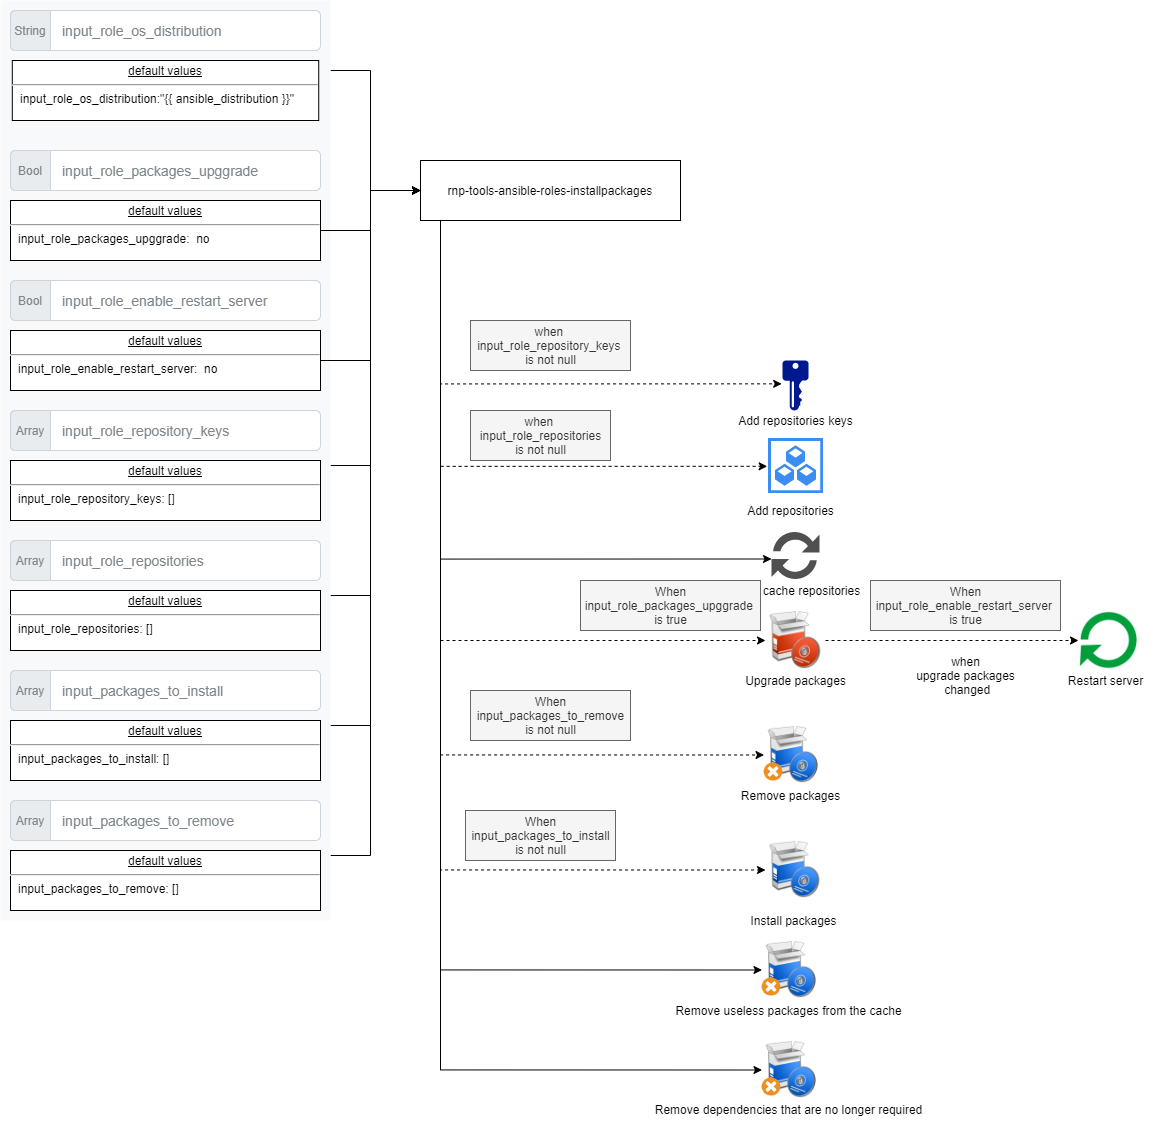
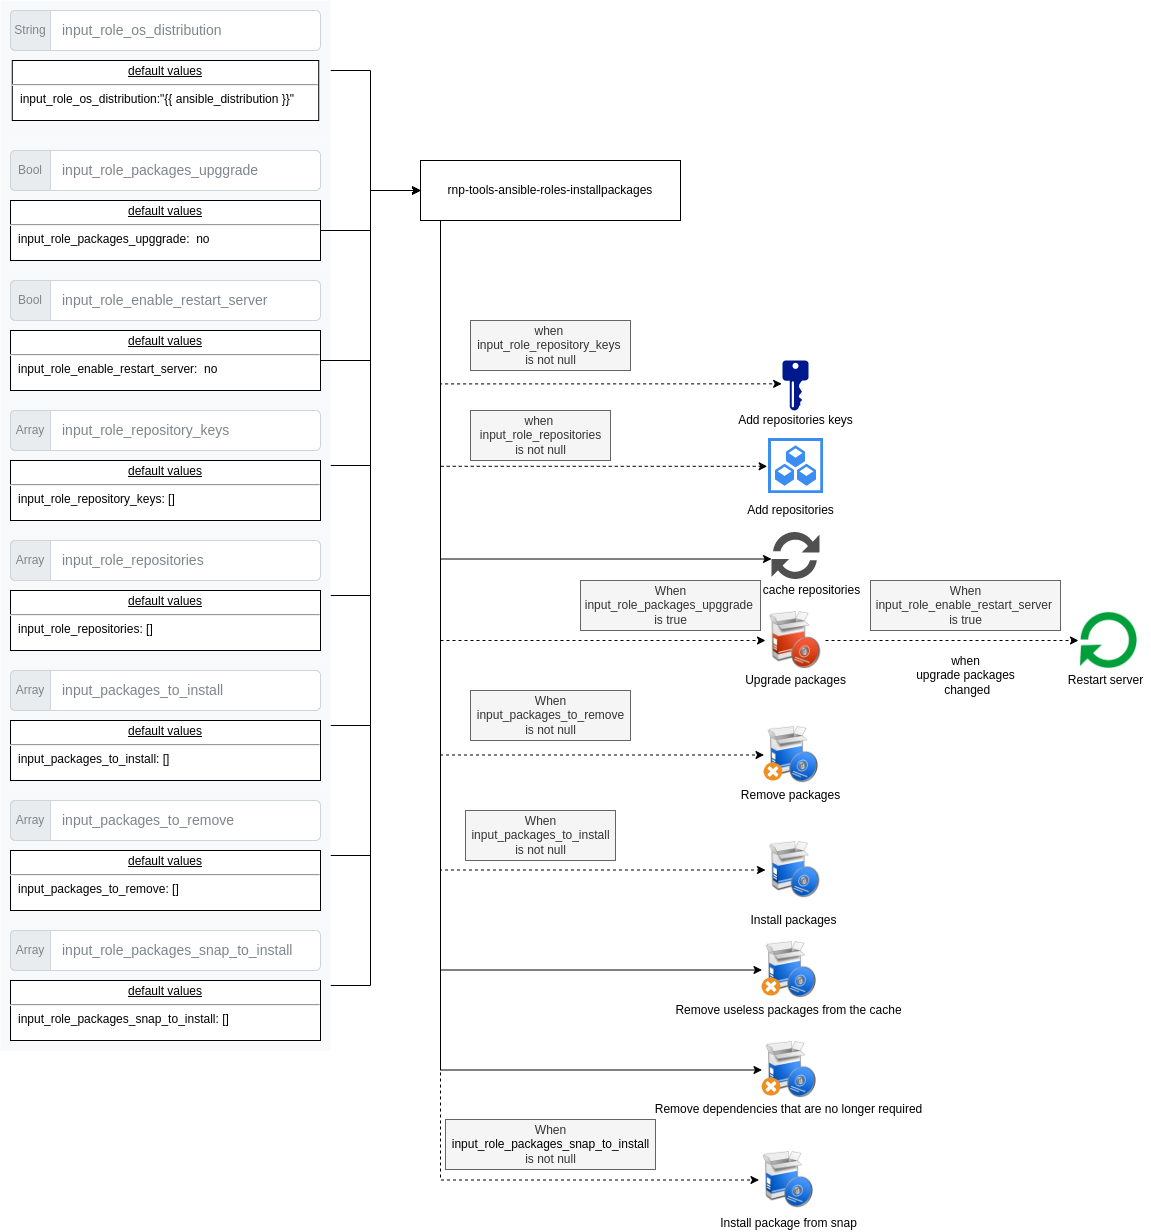
[RNP-16] Instalowanie snap na ubuntu

diff --git a/README.md b/README.md
@@ -10,13 +10,14 @@ Role Variables
 
 Defaults role values:
 ```yaml
-input_role_os_distribution:       "{{ ansible_distribution }}"
-input_role_packages_upggrade:     no
-input_role_enable_restart_server: no
-input_role_repository_keys:       []
-input_role_repositories:          []
-input_role_packages_to_install:   []
-input_role_packages_to_remove:    []
+input_role_os_distribution:          "{{ ansible_distribution }}"
+input_role_packages_upggrade:        no
+input_role_enable_restart_server:    no
+input_role_repository_keys:          []
+input_role_repositories:             []
+input_role_packages_to_install:      []
+input_role_packages_to_remove:       []
+input_role_packages_snap_to_install: []
 ```
 
 Example Playbook
